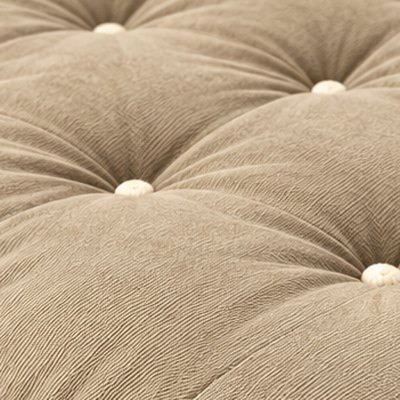
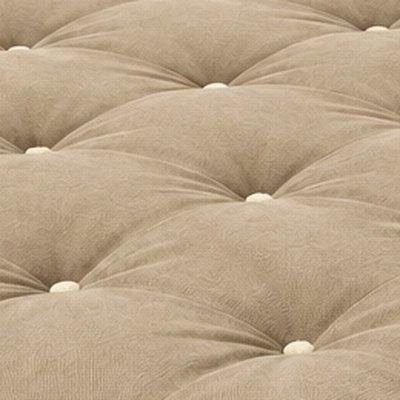
Mattress in four colors with studio shots
Khaki, Safari, Mocha Mousse and Morning Dove (now ivory). Each color
leads the gallery with its studio shot, then its room shot where there
is one, then the cutaway. Swatches are cropped from the studio shots.

Claude-Session: https://claude.ai/code/session_01BdupDbY4vAUPMLYs1EoME5

diff --git a/lib/mattress.ts b/lib/mattress.ts
@@ -12,7 +12,8 @@ export const LIVING_WOOL_PATH = "/pages/living-wool";
 export const GUARANTEE_PATH = "/pages/guarantee-warranty";
 
 export type MattressSize = { id: string; label: string; dims: string; price: number };
-export type MattressColor = { id: string; label: string; swatch: PhotoKey; photo?: PhotoKey; alt: string };
+/** studio: the product shot that leads the gallery; photo: a room shot, where one exists. */
+export type MattressColor = { id: string; label: string; swatch: PhotoKey; studio: PhotoKey; photo?: PhotoKey; alt: string };
 
 export const MATTRESS = {
   id: "natural-mattress",
@@ -40,11 +41,12 @@ export const MATTRESS = {
     { id: "firm", label: "Firm" },
   ],
 
-  /** Same price for every color. Names are editable ("Mocha Mousse" may be renamed). */
+  /** Same price for every color, in this order on the page. Names are editable ("Mocha Mousse" may be renamed). */
   colors: [
-    { id: "mocha", label: "Mocha Mousse", swatch: "mattress-swatch-mocha", photo: "mattress-mocha-room", alt: "The Ashwick Natural Mattress in Mocha Mousse on a walnut platform" },
-    { id: "safari", label: "Safari", swatch: "mattress-swatch-safari", photo: "mattress-safari-room", alt: "The Ashwick Natural Mattress in Safari on a light oak platform" },
-    { id: "dove", label: "Morning Dove", swatch: "mattress-swatch-dove", alt: "The Ashwick Natural Mattress in Morning Dove" },
+    { id: "khaki", label: "Khaki", swatch: "mattress-swatch-khaki", studio: "mattress-studio-khaki", alt: "The Ashwick Natural Mattress in Khaki" },
+    { id: "safari", label: "Safari", swatch: "mattress-swatch-safari", studio: "mattress-studio-safari", photo: "mattress-safari-room", alt: "The Ashwick Natural Mattress in Safari" },
+    { id: "mocha", label: "Mocha Mousse", swatch: "mattress-swatch-mocha", studio: "mattress-studio-mocha", photo: "mattress-mocha-room", alt: "The Ashwick Natural Mattress in Mocha Mousse" },
+    { id: "dove", label: "Morning Dove", swatch: "mattress-swatch-dove", studio: "mattress-studio-dove", alt: "The Ashwick Natural Mattress in Morning Dove" },
   ] satisfies MattressColor[],
 
   /** false shows "Coming soon" in place of Add to cart (until the Shopify product and checkout are set up). */

diff --git a/components/mattress-view.tsx b/components/mattress-view.tsx
@@ -52,8 +52,8 @@ export function MattressView() {
 
   const sel = colorById(color);
   const sz = sizeById(size);
-  // The color's room photo (or a placeholder until one exists), then the construction.
-  const gallery: (PhotoKey | undefined)[] = [sel.photo, "mattress-cutaway"];
+  // The color's product shot, its room shot where there is one, then the construction.
+  const gallery: PhotoKey[] = [sel.studio, ...(sel.photo ? [sel.photo] : []), "mattress-cutaway"];
   const setColor = (c: string) => {
     setColorState(c);
     setImg(0);
@@ -64,7 +64,7 @@ export function MattressView() {
     cart.add({
       id: M.id,
       name: M.title,
-      photo: sel.photo ?? sel.swatch,
+      photo: sel.studio,
       price: sz.price,
       qty: 1,
       mode: "As designed",
@@ -76,13 +76,13 @@ export function MattressView() {
       <div className="gal">
         <div className="gal-main">
           <div className="gal-photo">
-            <Photo src={gallery[img]} label={img === 0 ? `${M.title} in ${sel.label}` : `${M.title}: the layers inside`} sizes="(max-width: 960px) 100vw, 56vw" preload />
+            <Photo src={gallery[img]} label={gallery[img] === "mattress-cutaway" ? `${M.title}: the layers inside` : sel.alt} sizes="(max-width: 960px) 100vw, 56vw" preload />
           </div>
         </div>
         <div className="gal-thumbs">
           {gallery.map((ph, i) => (
             <button key={i} className={i === img ? "on" : ""} aria-label={"Image " + (i + 1)} aria-pressed={i === img} onClick={() => setImg(i)}>
-              <Photo src={ph ?? sel.swatch} label="" sizes="84px" />
+              <Photo src={ph} label="" sizes="84px" />
             </button>
           ))}
         </div>

diff --git a/lib/photos.ts b/lib/photos.ts
@@ -37,6 +37,11 @@ import mattressCutaway from "@/assets/photos/mattress-cutaway.jpg";
 import mattressSwatchMocha from "@/assets/photos/mattress-swatch-mocha.jpg";
 import mattressSwatchSafari from "@/assets/photos/mattress-swatch-safari.jpg";
 import mattressSwatchDove from "@/assets/photos/mattress-swatch-dove.jpg";
+import mattressStudioKhaki from "@/assets/photos/mattress-studio-khaki.jpg";
+import mattressStudioSafari from "@/assets/photos/mattress-studio-safari.jpg";
+import mattressStudioMocha from "@/assets/photos/mattress-studio-mocha.jpg";
+import mattressStudioDove from "@/assets/photos/mattress-studio-dove.jpg";
+import mattressSwatchKhaki from "@/assets/photos/mattress-swatch-khaki.jpg";
 import pembroke1 from "@/assets/photos/pembroke-1.jpg";
 import pembroke2 from "@/assets/photos/pembroke-2.jpg";
 import pembrokeBlendDove from "@/assets/photos/pembroke-blend-dove.jpg";
@@ -86,6 +91,11 @@ export const PHOTOS = {
   "mattress-swatch-mocha": mattressSwatchMocha,
   "mattress-swatch-safari": mattressSwatchSafari,
   "mattress-swatch-dove": mattressSwatchDove,
+  "mattress-studio-khaki": mattressStudioKhaki,
+  "mattress-studio-safari": mattressStudioSafari,
+  "mattress-studio-mocha": mattressStudioMocha,
+  "mattress-studio-dove": mattressStudioDove,
+  "mattress-swatch-khaki": mattressSwatchKhaki,
   "pembroke-1": pembroke1,
   "pembroke-2": pembroke2,
   "pembroke-blend-ivory": pembrokeBlendIvory,

diff --git a/app/products/natural-mattress/page.tsx b/app/products/natural-mattress/page.tsx
@@ -8,6 +8,7 @@ import { PHOTOS } from "@/lib/photos";
 import { fmt } from "@/lib/products";
 
 const M = MATTRESS;
+const COUNT: Record<number, string> = { 2: "two", 3: "three", 4: "four", 5: "five", 6: "six" };
 
 export const metadata: Metadata = {
   title: M.title,
@@ -80,10 +81,10 @@ export default function MattressPage() {
           <div className="center-head">
             <h2 className="h2">Your bed, in color.</h2>
             <p className="body" style={{ marginTop: 24 }}>
-              Natural mattresses are almost always white. Ours comes in three colors, made to be seen: {M.colors.map((c) => c.label).join(", ").replace(/, ([^,]*)$/, " and $1")}.
+              Natural mattresses are almost always white. Ours comes in {COUNT[M.colors.length] ?? M.colors.length} colors, made to be seen: {M.colors.map((c) => c.label).join(", ").replace(/, ([^,]*)$/, " and $1")}.
             </p>
           </div>
-          <div className="grid3 m-colors">
+          <div className="m-colors">
             {M.colors.map((c) => (
               <figure className="m-color" key={c.id}>
                 <div className="m-color-img"><Photo src={c.swatch} label={`${c.label} fabric, hand-tufted`} sizes="(max-width: 960px) 100vw, 33vw" /></div>

diff --git a/app/globals.css b/app/globals.css
@@ -113,7 +113,7 @@ button.chip{cursor:pointer}
 .info>.ulink{margin:22px 28px 0 0}
 .linkbtn.ulink{border-width:0 0 1px;border-style:solid;border-color:currentColor;letter-spacing:.26em;text-transform:uppercase;font:500 11px var(--sans);padding-bottom:5px}
 .info .custom-req{margin-top:20px}
-.m-colors{margin-top:64px}
+.m-colors{margin-top:64px;display:grid;grid-template-columns:repeat(4,minmax(0,1fr));gap:32px}
 .m-color{margin:0}
 .m-color-img{position:relative;aspect-ratio:1/1;overflow:hidden;background:var(--alabaster)}
 .m-color-img img{width:100%;height:100%;object-fit:cover}
@@ -426,6 +426,7 @@ button.chip{cursor:pointer}
   .proc.txt{padding-top:40px}
   .offer-grid{grid-template-columns:minmax(0,1fr) minmax(0,1fr);gap:28px 20px}
   .layers{grid-template-columns:minmax(0,1fr)}
+  .m-colors{grid-template-columns:repeat(2,minmax(0,1fr));gap:24px 16px}
   .deflist div{grid-template-columns:minmax(0,1fr);gap:6px}
   .terms{columns:1}
   .tsteps{grid-template-columns:minmax(0,1fr);gap:32px}
